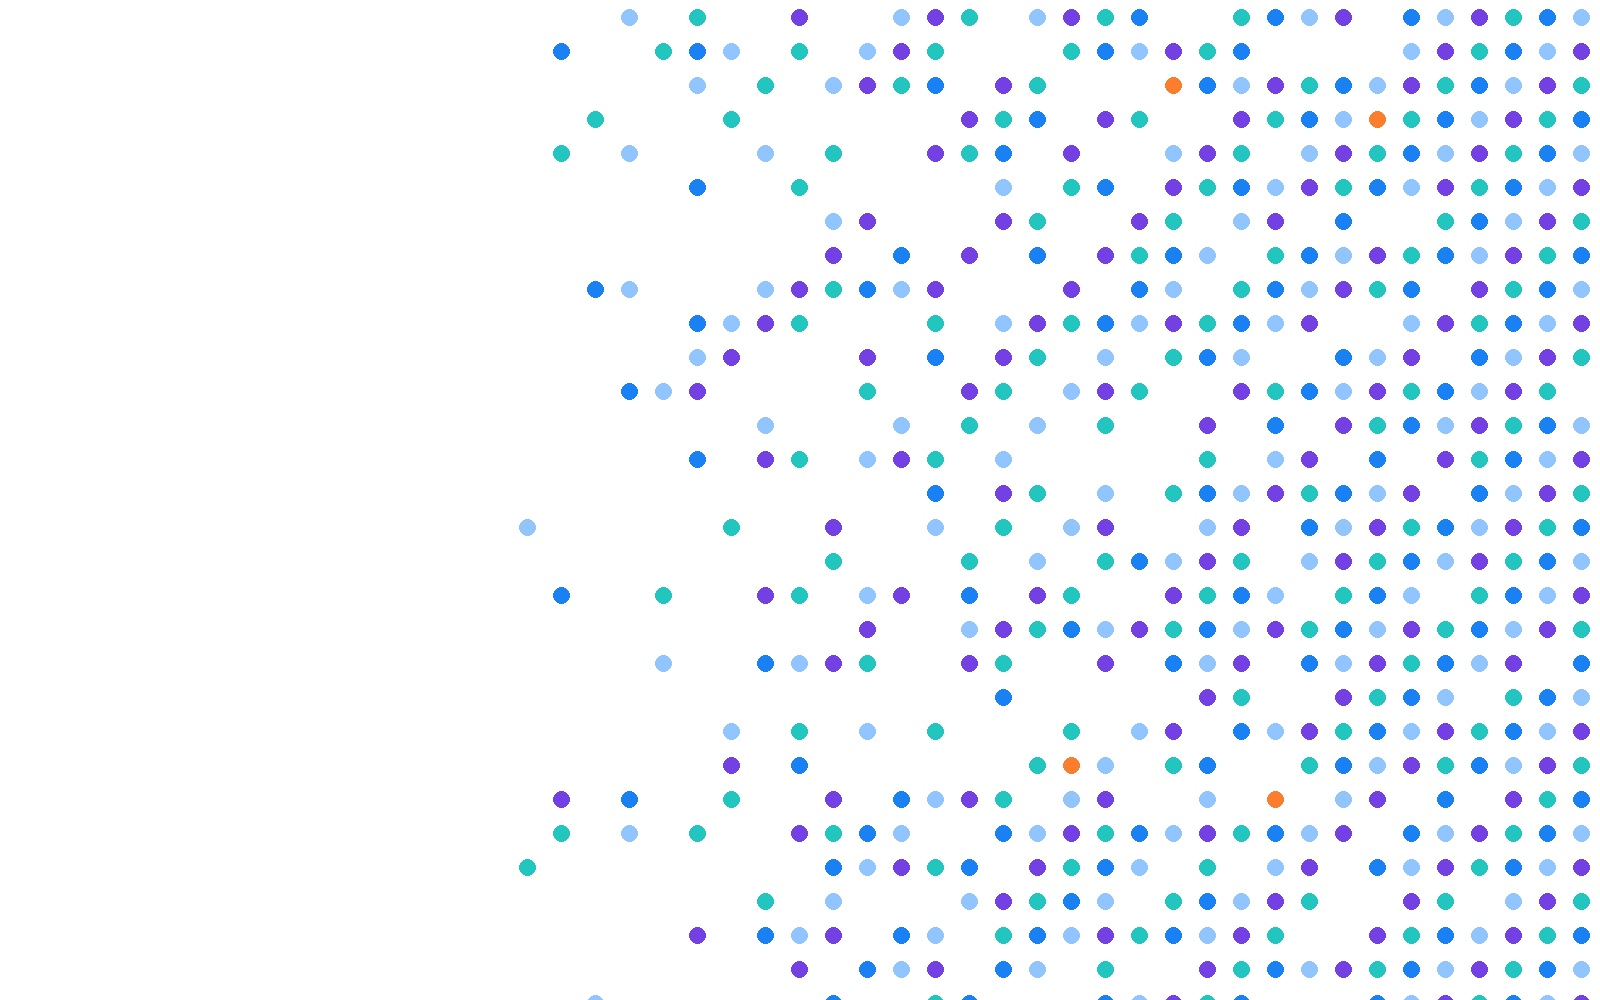
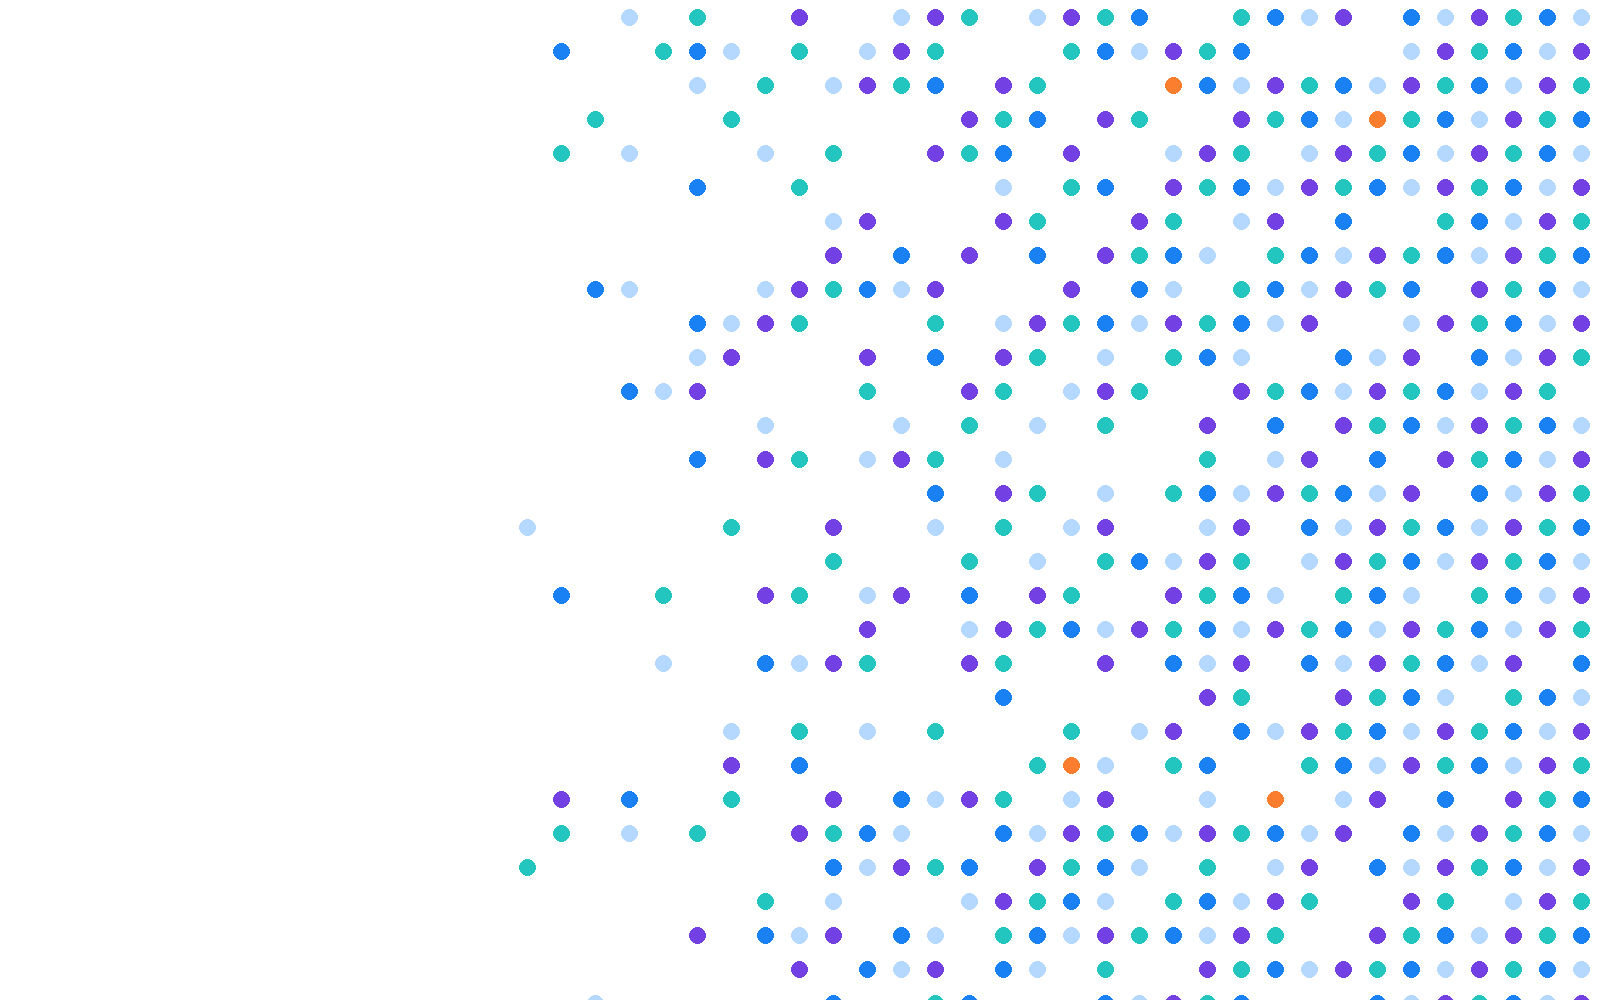
Audit fixes: current light blue in dots, dots-card heading/cross-ref, stray hex
- Regenerate dots-multicolor/lightblue with the current light blue #B4D8FF (they used the retired #90C5FF from the SharePoint READ ME)
- Dot patterns card: align heading/title with its index name (was 'Primary graphic devices'); update the corrections cross-reference
- pathways: replace an off-palette #12836f hex-label tint with navy

Claude-Session: https://claude.ai/code/session_01VAZeQ9i2hWPkVLCiN2vsAe

diff --git a/components/dots.html b/components/dots.html
@@ -1,13 +1,13 @@
 <!-- @dsCard group="Graphic devices" name="Dot patterns" subtitle="Scattered field, framing elements, dot row" width="960" height="2200" -->
 <!DOCTYPE html><html lang="en"><head>
 <meta charset="UTF-8"><meta name="viewport" content="width=device-width, initial-scale=1.0">
-<title>Primary graphic devices</title>
+<title>Dot patterns</title>
 <link href="https://fonts.googleapis.com/css2?family=Poppins:wght@300;400;500;600&display=swap" rel="stylesheet">
 <link href="https://fonts.googleapis.com/css2?family=IBM+Plex+Mono:wght@400;500&display=swap" rel="stylesheet">
 <link rel="stylesheet" href="../tokens.css">
 </head><body>
 <div class="wrap">
-<h2>Primary graphic devices</h2>
+<h2>Dot patterns</h2>
 <h3>The dots pattern</h3>
 <p>The dots are Rhapsody's <a href="#">primary graphic device</a>, and they carry the meaning of what we do. Each dot is a data point, a system, a person. Rhapsody's work is to <strong>connect that data, clean it, and organize it</strong>, and the dots tell that story: many separate points brought into alignment, resolving from scattered noise into an ordered, legible field. Used well, they signal connectivity, precision, and scale while adding texture and refinement.</p>
 <div class="principle">

diff --git a/components/pathways.html b/components/pathways.html
@@ -27,7 +27,7 @@
     <div style="width:44px;height:3px;border-radius:2px;background:var(--teal);margin-bottom:21px;"></div>
     <p style="font-family:var(--mono);font-weight:500;font-size:11.5px;letter-spacing:0.17em;text-transform:uppercase;color:var(--navy);margin:0 0 10px;">Automate the work</p>
     <div style="font-weight:400;font-size:24px;line-height:1.2;color:var(--navy);">Automate the work around&nbsp;the&nbsp;data.</div>
-    <p class="caption" style="margin:14px 0 0;">Path color: Teal <strong style="color:#12836f;">#23C5BF</strong>. Teal cues the automate surface. The <em>line</em> is teal; keep the eyebrow and heading navy, since teal is not legible as small text on white.</p>
+    <p class="caption" style="margin:14px 0 0;">Path color: Teal <strong style="color:var(--navy);">#23C5BF</strong>. Teal cues the automate surface. The <em>line</em> is teal; keep the eyebrow and heading navy, since teal is not legible as small text on white.</p>
   </div>
 </div>
 
